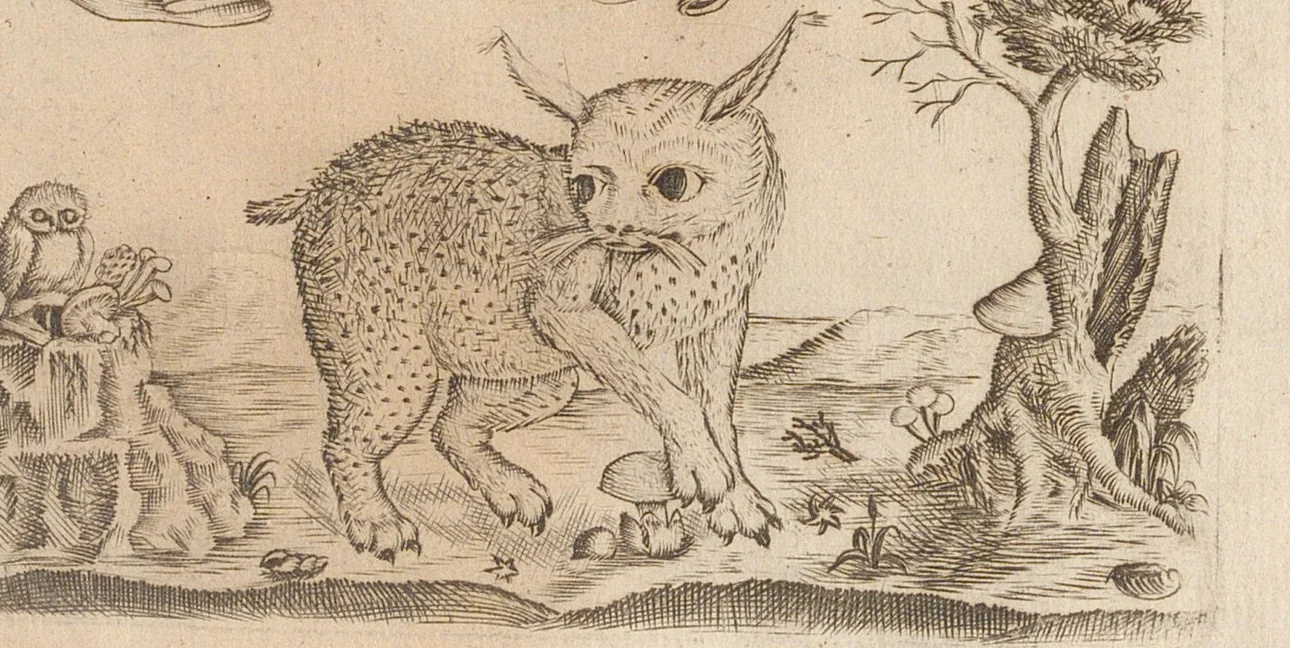
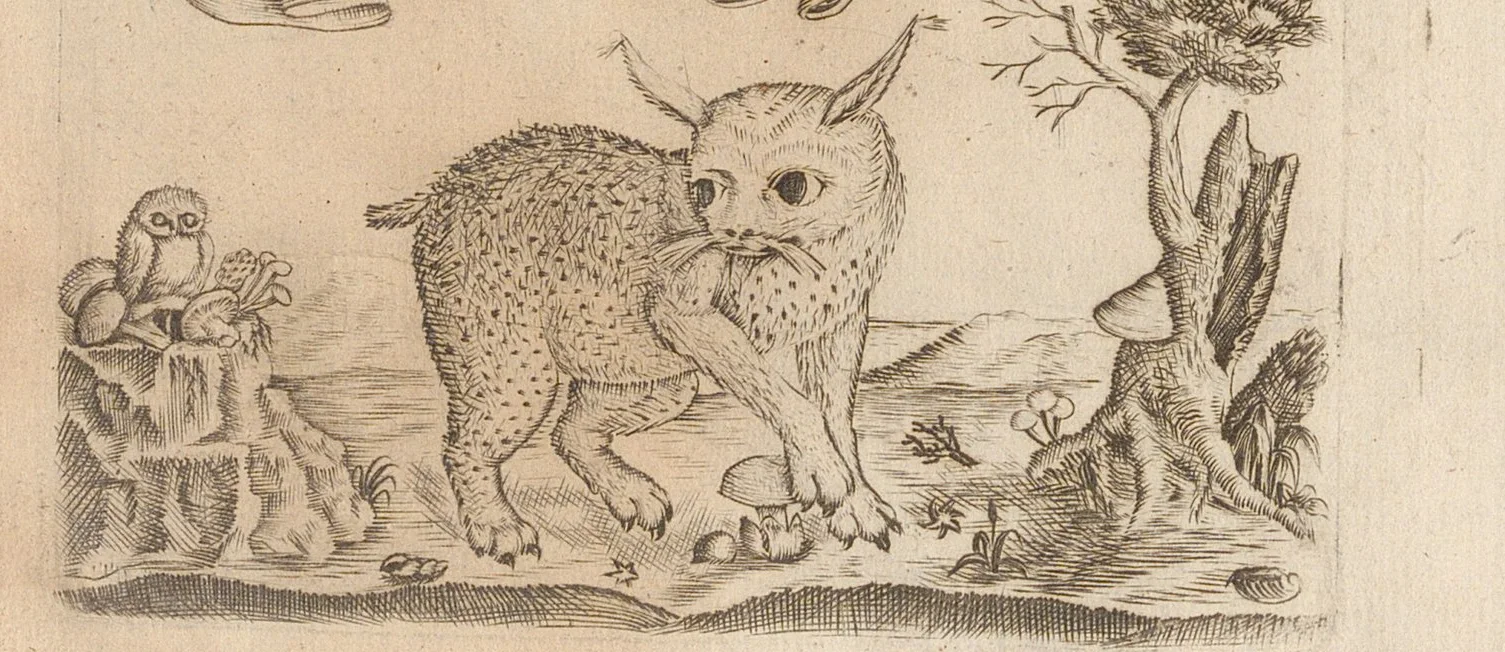
fix(mycology): rebalance quote-bg crop, crisper countdown ring
Recrop the Battarra engraving to include the full owl on the left and trim the
right margin (better-centered scene). Render the countdown ring at a higher
internal viewBox (r=20, geometricPrecision) so the arc is smooth, not jagged.

diff --git a/src/app/collections/mycology/_components/QuoteBlock.tsx b/src/app/collections/mycology/_components/QuoteBlock.tsx
@@ -79,10 +79,10 @@ export default function QuoteBlock({ quotes, bgUrl }: { quotes: Quote[]; bgUrl?:
             <button type="button" onClick={advance} aria-label="Next quote"
               className="w-8 h-8 inline-flex items-center justify-center rounded-full border border-white/25 text-white/70 hover:text-white hover:border-white/50 transition-colors">
               <span key={cycle} className="quote-timer" aria-hidden>
-                <svg width="18" height="18" viewBox="0 0 20 20" fill="none">
-                  <circle cx="10" cy="10" r="8.2" stroke="currentColor" strokeOpacity="0.3" strokeWidth="1.7" />
-                  <circle className="quote-timer-arc" cx="10" cy="10" r="8.2" stroke="currentColor" strokeWidth="1.7"
-                    strokeLinecap="round" transform="rotate(-90 10 10)"
+                <svg width="18" height="18" viewBox="0 0 48 48" fill="none">
+                  <circle cx="24" cy="24" r="20" stroke="currentColor" strokeOpacity="0.3" strokeWidth="3.4" />
+                  <circle className="quote-timer-arc" cx="24" cy="24" r="20" stroke="currentColor" strokeWidth="3.4"
+                    strokeLinecap="round" transform="rotate(-90 24 24)"
                     style={{ animationDuration: `${CYCLE_MS}ms` }} />
                 </svg>
               </span>

diff --git a/src/app/globals.css b/src/app/globals.css
@@ -430,10 +430,11 @@ mark {
 .quote-timer { display: inline-flex; line-height: 0; }
 .quote-timer-arc {
   fill: none;
-  /* circumference of r=8.2 ≈ 51.5 */
-  stroke-dasharray: 51.5;
-  stroke-dashoffset: 51.5;
+  /* circumference of r=20 ≈ 126 (high-res viewBox keeps the arc crisp) */
+  stroke-dasharray: 126;
+  stroke-dashoffset: 126;
   animation: quote-sweep linear forwards;
+  shape-rendering: geometricPrecision;
 }
 @keyframes quote-sweep {
   to { stroke-dashoffset: 0; }
